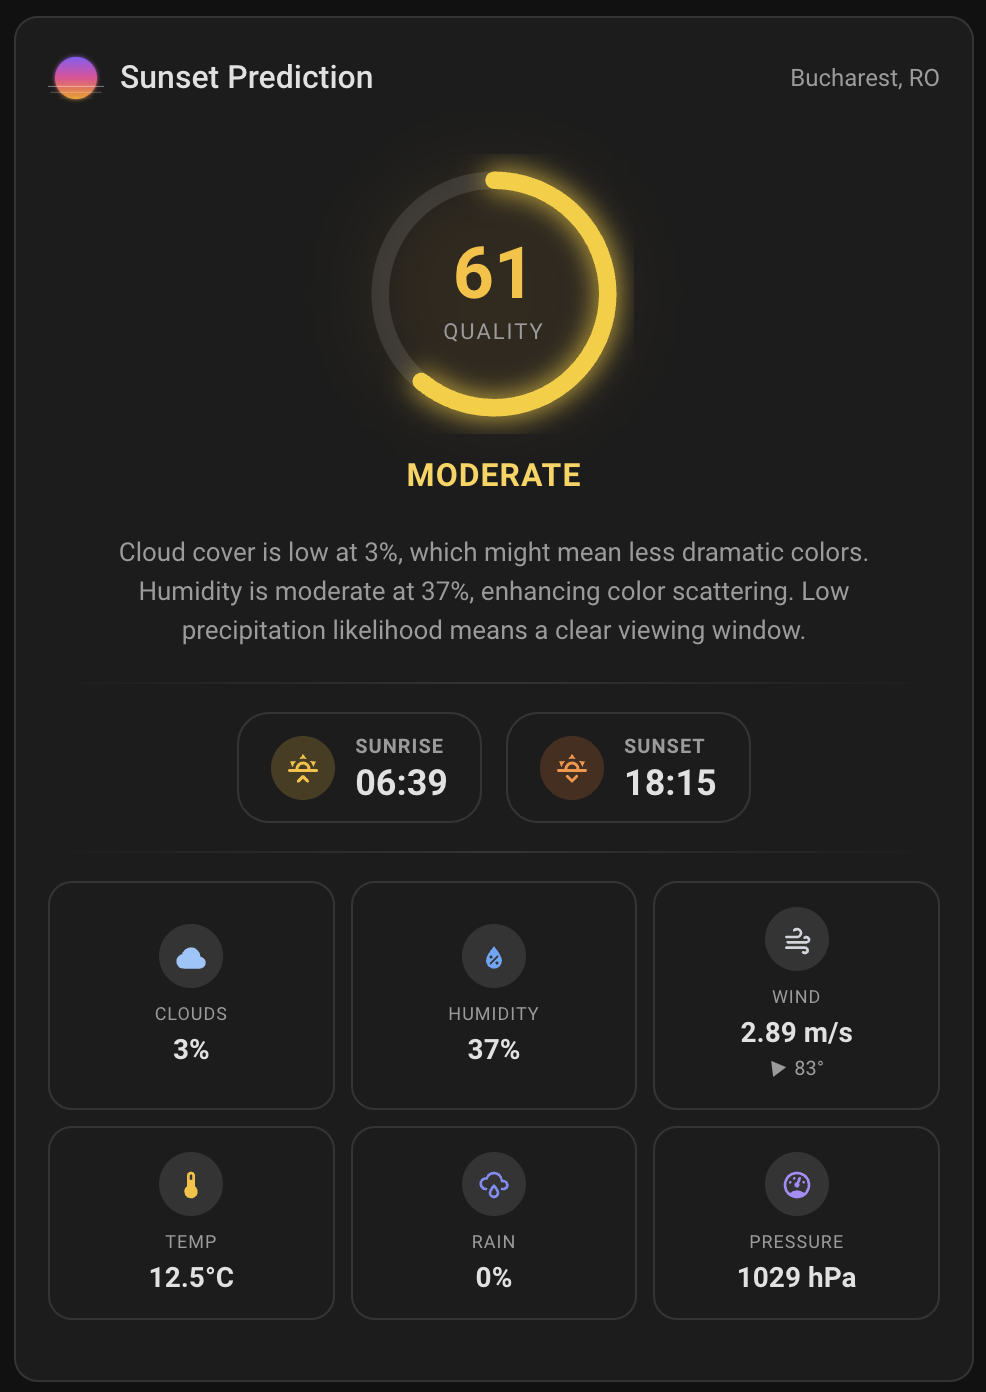
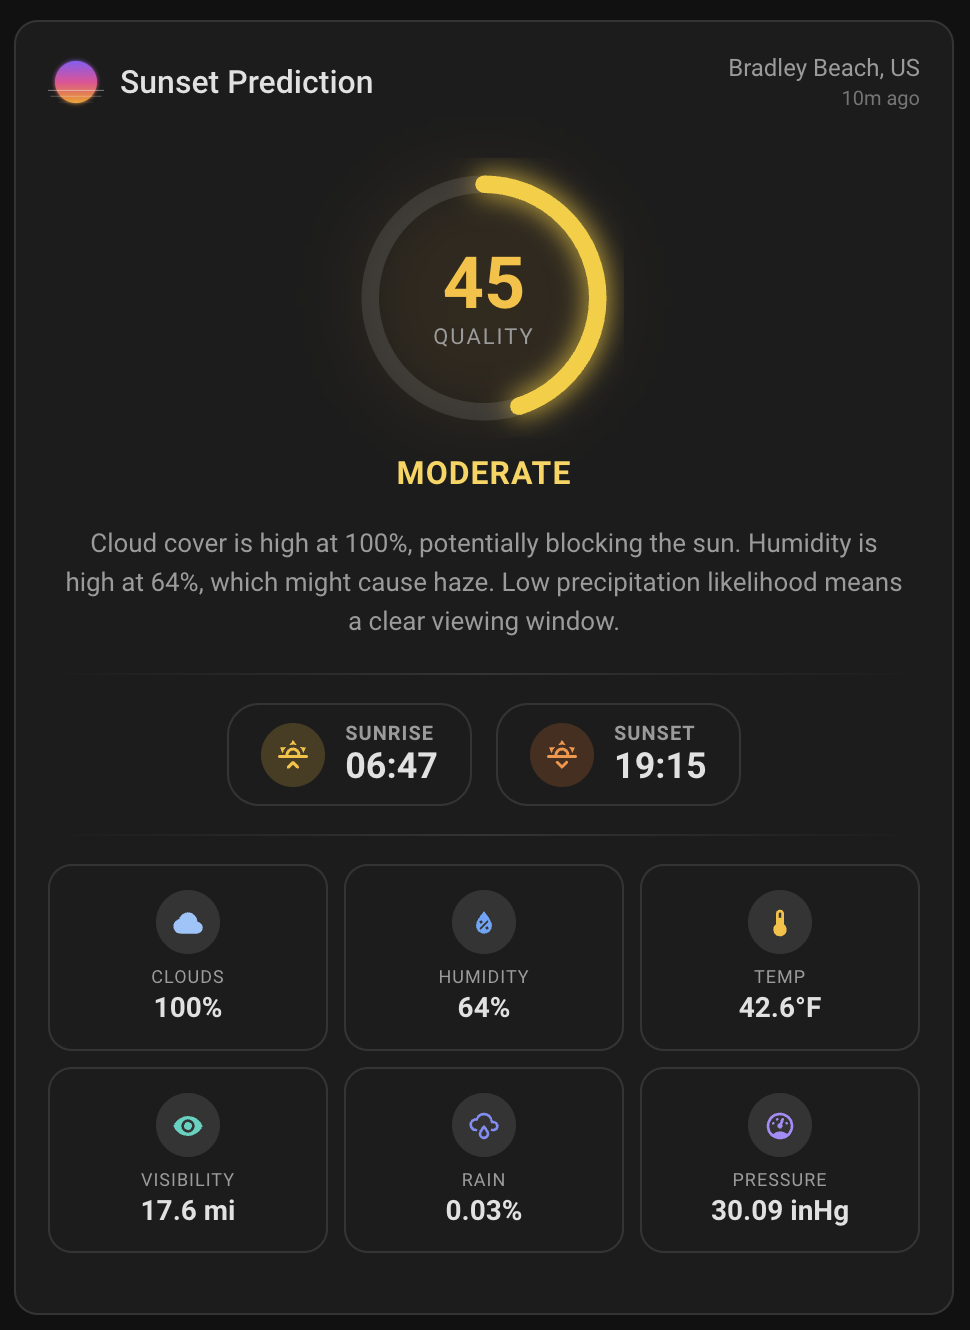
feat: Enhance README with development setup and testing instructions; improve API error handling and options flow

diff --git a/custom_components/sunset_predictor/config_flow.py b/custom_components/sunset_predictor/config_flow.py
@@ -88,14 +88,11 @@ class SunsetPredictorConfigFlow(config_entries.ConfigFlow, domain=DOMAIN):
         config_entry: config_entries.ConfigEntry,
     ) -> SunsetPredictorOptionsFlow:
         """Get the options flow."""
-        return SunsetPredictorOptionsFlow(config_entry)
+        return SunsetPredictorOptionsFlow()
 
 
 class SunsetPredictorOptionsFlow(config_entries.OptionsFlow):
     """Handle options for Sunset Predictor."""
-
-    def __init__(self, config_entry: config_entries.ConfigEntry) -> None:
-        self._config_entry = config_entry
 
     async def async_step_init(
         self, user_input: dict[str, Any] | None = None
@@ -104,18 +101,26 @@ class SunsetPredictorOptionsFlow(config_entries.OptionsFlow):
         errors: dict[str, str] = {}
 
         if user_input is not None:
-            session = async_get_clientsession(self.hass)
-            client = SunsetPredictorApiClient(
-                session, self._config_entry.data["api_key"]
-            )
-            error = await client.async_validate_key(
-                user_input["latitude"], user_input["longitude"]
-            )
-            if error is None:
-                return self.async_create_entry(title="", data=user_input)
-            errors["base"] = error
+            # Only validate against the API if location changed
+            current = {**self.config_entry.data, **self.config_entry.options}
+            lat_changed = user_input["latitude"] != current.get("latitude")
+            lon_changed = user_input["longitude"] != current.get("longitude")
 
-        current = self._config_entry.data
+            if lat_changed or lon_changed:
+                session = async_get_clientsession(self.hass)
+                client = SunsetPredictorApiClient(
+                    session, self.config_entry.data["api_key"]
+                )
+                error = await client.async_validate_key(
+                    user_input["latitude"], user_input["longitude"]
+                )
+                if error is not None:
+                    errors["base"] = error
+
+            if not errors:
+                return self.async_create_entry(title="", data=user_input)
+
+        current = {**self.config_entry.data, **self.config_entry.options}
 
         return self.async_show_form(
             step_id="init",

diff --git a/custom_components/sunset_predictor/coordinator.py b/custom_components/sunset_predictor/coordinator.py
@@ -9,6 +9,7 @@ from datetime import timedelta
 import aiohttp
 from homeassistant.core import HomeAssistant
 from homeassistant.exceptions import ConfigEntryAuthFailed
+from homeassistant.helpers.sun import is_up
 from homeassistant.helpers.update_coordinator import DataUpdateCoordinator, UpdateFailed
 
 from .api import SunsetPredictorApiClient, SunsetPredictorAuthError
@@ -41,7 +42,12 @@ class SunsetPredictorCoordinator(DataUpdateCoordinator):
         self.lang = lang
 
     async def _async_update_data(self) -> dict:
-        """Fetch data from the API."""
+        """Fetch data from the API. Skip fetching at night."""
+        if not is_up(self.hass):
+            _LOGGER.debug("Sun is down, skipping sunset prediction fetch")
+            if self.data is not None:
+                return self.data
+            # No cached data yet — still need to fetch
         try:
             return await self.api_client.async_get_prediction(
                 self.lat, self.lon, self.lang
@@ -50,5 +56,3 @@ class SunsetPredictorCoordinator(DataUpdateCoordinator):
             raise ConfigEntryAuthFailed from err
         except (aiohttp.ClientError, asyncio.TimeoutError) as err:
             raise UpdateFailed(f"Connection error: {err}") from err
-        except Exception as err:
-            raise UpdateFailed(f"Unexpected error: {err}") from err

diff --git a/custom_components/sunset_predictor/sensor.py b/custom_components/sunset_predictor/sensor.py
@@ -6,6 +6,7 @@ from homeassistant.components.sensor import SensorEntity, SensorStateClass
 from homeassistant.config_entries import ConfigEntry
 from homeassistant.core import HomeAssistant
 from homeassistant.helpers.device_registry import DeviceEntryType
+from homeassistant.helpers.entity import DeviceInfo
 from homeassistant.helpers.entity_platform import AddEntitiesCallback
 from homeassistant.helpers.update_coordinator import CoordinatorEntity
 
@@ -39,12 +40,12 @@ class SunsetPredictionSensor(CoordinatorEntity, SensorEntity):
     ) -> None:
         super().__init__(coordinator)
         self._attr_unique_id = f"{entry.entry_id}_prediction"
-        self._attr_device_info = {
-            "identifiers": {(DOMAIN, entry.entry_id)},
-            "name": "Sunset Predictor",
-            "manufacturer": "sunset-predictor.com",
-            "entry_type": DeviceEntryType.SERVICE,
-        }
+        self._attr_device_info = DeviceInfo(
+            identifiers={(DOMAIN, entry.entry_id)},
+            name="Sunset Predictor",
+            manufacturer="sunset-predictor.com",
+            entry_type=DeviceEntryType.SERVICE,
+        )
 
     @property
     def native_value(self) -> int | None:

diff --git a/custom_components/sunset_predictor/api.py b/custom_components/sunset_predictor/api.py
@@ -42,9 +42,11 @@ class SunsetPredictorApiClient:
             ) as resp:
                 if resp.status == 401:
                     raise SunsetPredictorAuthError("Invalid API key")
+                if resp.status == 429:
+                    raise SunsetPredictorApiError("API rate limit exceeded")
                 resp.raise_for_status()
                 return await resp.json()
-        except SunsetPredictorAuthError:
+        except (SunsetPredictorAuthError, SunsetPredictorApiError):
             raise
         except aiohttp.ClientError as err:
             raise SunsetPredictorApiError(

diff --git a/custom_components/sunset_predictor/__init__.py b/custom_components/sunset_predictor/__init__.py
@@ -59,4 +59,6 @@ async def async_unload_entry(hass: HomeAssistant, entry: ConfigEntry) -> bool:
     unload_ok = await hass.config_entries.async_unload_platforms(entry, PLATFORMS)
     if unload_ok:
         hass.data[DOMAIN].pop(entry.entry_id)
+        if not hass.data[DOMAIN]:
+            del hass.data[DOMAIN]
     return unload_ok

diff --git a/README.md b/README.md
@@ -17,6 +17,7 @@ A Home Assistant integration that predicts sunset quality using [sunset-predicto
 - Sunset and sunrise times
 - Localized explanations (en, fr, de, es, ro, ru, uk)
 - Configurable polling interval
+- Automatic nighttime skip — no API calls after sunset until the next sunrise
 
 ## Installation
 
@@ -46,6 +47,67 @@ The integration creates a sensor entity `sensor.sunset_predictor` with:
 
 - **State**: Sunset quality score (0–100)
 - **Attributes**: label, explanation, confidence, sunset/sunrise times, weather factors, raw meteorological data
+
+## Development
+
+### Prerequisites
+
+- Python 3.12+
+- A running Home Assistant instance (or [dev container](https://developers.home-assistant.io/docs/development_environment))
+
+### Setup
+
+```bash
+git clone https://github.com/mishasyrbu/ha-sunset-predictor.git
+cd ha-sunset-predictor
+python -m venv venv
+source venv/bin/activate
+pip install homeassistant
+```
+
+### Project structure
+
+```
+custom_components/sunset_predictor/
+├── __init__.py       # Integration setup and teardown
+├── api.py            # API client for sunset-predictor.com
+├── config_flow.py    # Config and options flow UI
+├── const.py          # Constants (domain, defaults, endpoints)
+├── coordinator.py    # DataUpdateCoordinator with nighttime skip
+├── sensor.py         # Sensor entity exposing score and attributes
+├── manifest.json
+├── strings.json
+└── translations/     # Localized strings (en, fr, de, es, ro, ru, uk)
+```
+
+### Testing
+
+#### CI validation
+
+The repository runs two validation checks on every push and PR:
+
+- **HACS validation** — ensures the integration meets [HACS](https://hacs.xyz/) requirements
+- **hassfest** — validates `manifest.json` and integration structure against Home Assistant standards
+
+#### Manual testing
+
+1. Copy `custom_components/sunset_predictor` into your HA `config/custom_components/` directory:
+   ```bash
+   scp -r custom_components/sunset_predictor user@your-ha-server:/path/to/homeassistant/config/custom_components/sunset_predictor
+   ```
+2. Restart Home Assistant
+3. Add the integration via **Settings → Devices & Services → Add Integration**
+4. Verify the sensor entity appears and reports a score
+5. Test the options flow by changing language, polling interval, or coordinates
+
+#### Key scenarios to verify
+
+- **Setup flow**: valid API key creates the entry; invalid key shows an error
+- **Duplicate prevention**: adding the same coordinates twice is rejected
+- **Options flow**: changing settings reloads the integration with updated values
+- **Nighttime skip**: after sunset, the coordinator returns cached data instead of calling the API
+- **Auth failure**: an expired/revoked API key triggers HA's reauthentication flow
+- **Network errors**: temporary API outages show as "unavailable" without crashing the integration
 
 ## Companion Card
 
